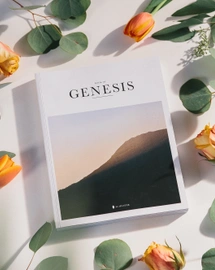
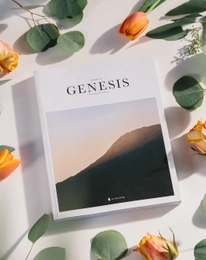
change sharp parameter

diff --git a/backend/controllers/book.js b/backend/controllers/book.js
@@ -14,8 +14,7 @@ exports.createBooks = async (req, res, next) => {
     const outputPath = path.join('images', outputFilename);
 
     await sharp(inputPath)
-        .resize({ width: 470, height: 600, fit: 'cover' })
-        .webp({ quality: 100 })
+        .resize({ width: 206, height: 260, fit: 'cover'})
         .toFile(outputPath);
 
     fs.unlinkSync(inputPath);
